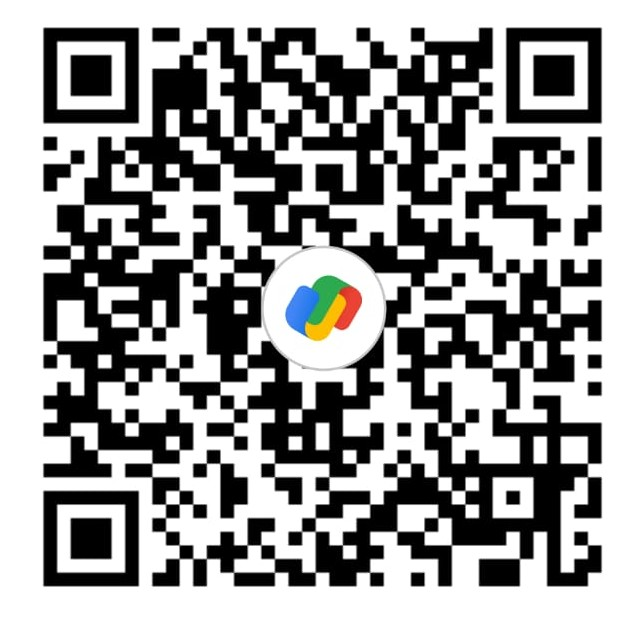
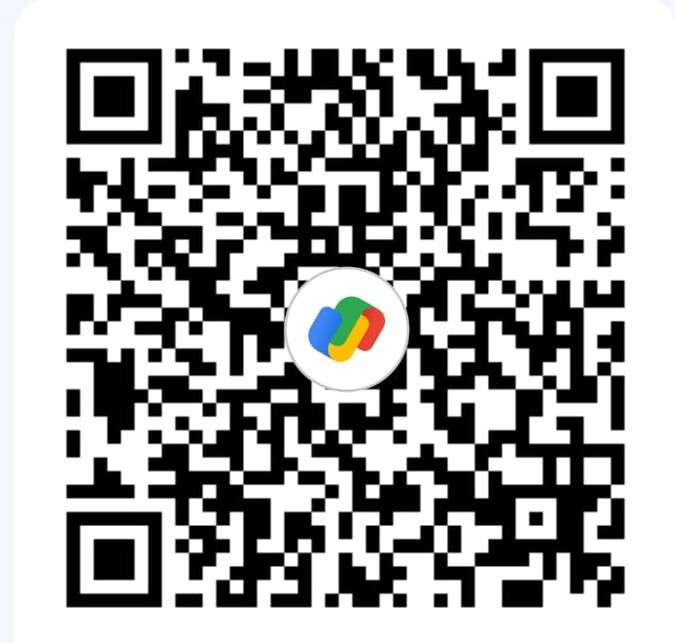
feat: update payment QR code image asset to q.code 3.jpeg

diff --git a/src/components/RegistrationPage.jsx b/src/components/RegistrationPage.jsx
@@ -4,7 +4,7 @@ import { supabase } from '../lib/supabase';
 import confiqLogo from '../assets/CONFIQ.png';
 import vectorSmartObject from '../assets/Vector Smart Object.png';
 import group8Img from '../assets/Group 8.png';
-import qrCodeImg from '../assets/q.code 2.jpeg';
+import qrCodeImg from '../assets/q.code 3.jpeg';
 import {
   CheckCircle, Printer, User, Phone, MapPin,
   Award, Briefcase, GraduationCap, Sparkles, Copy,

diff --git a/src/components/RegistrationModal.jsx b/src/components/RegistrationModal.jsx
@@ -1,7 +1,7 @@
 import React, { useState } from 'react';
 import confetti from 'canvas-confetti';
 import { supabase } from '../lib/supabase';
-import qrCodeImg from '../assets/q.code 2.jpeg';
+import qrCodeImg from '../assets/q.code 3.jpeg';
 import {
   X, CheckCircle, Printer, QrCode, User, Mail, Phone, MapPin,
   BookOpen, Award, Briefcase, GraduationCap, Sparkles, Copy,
